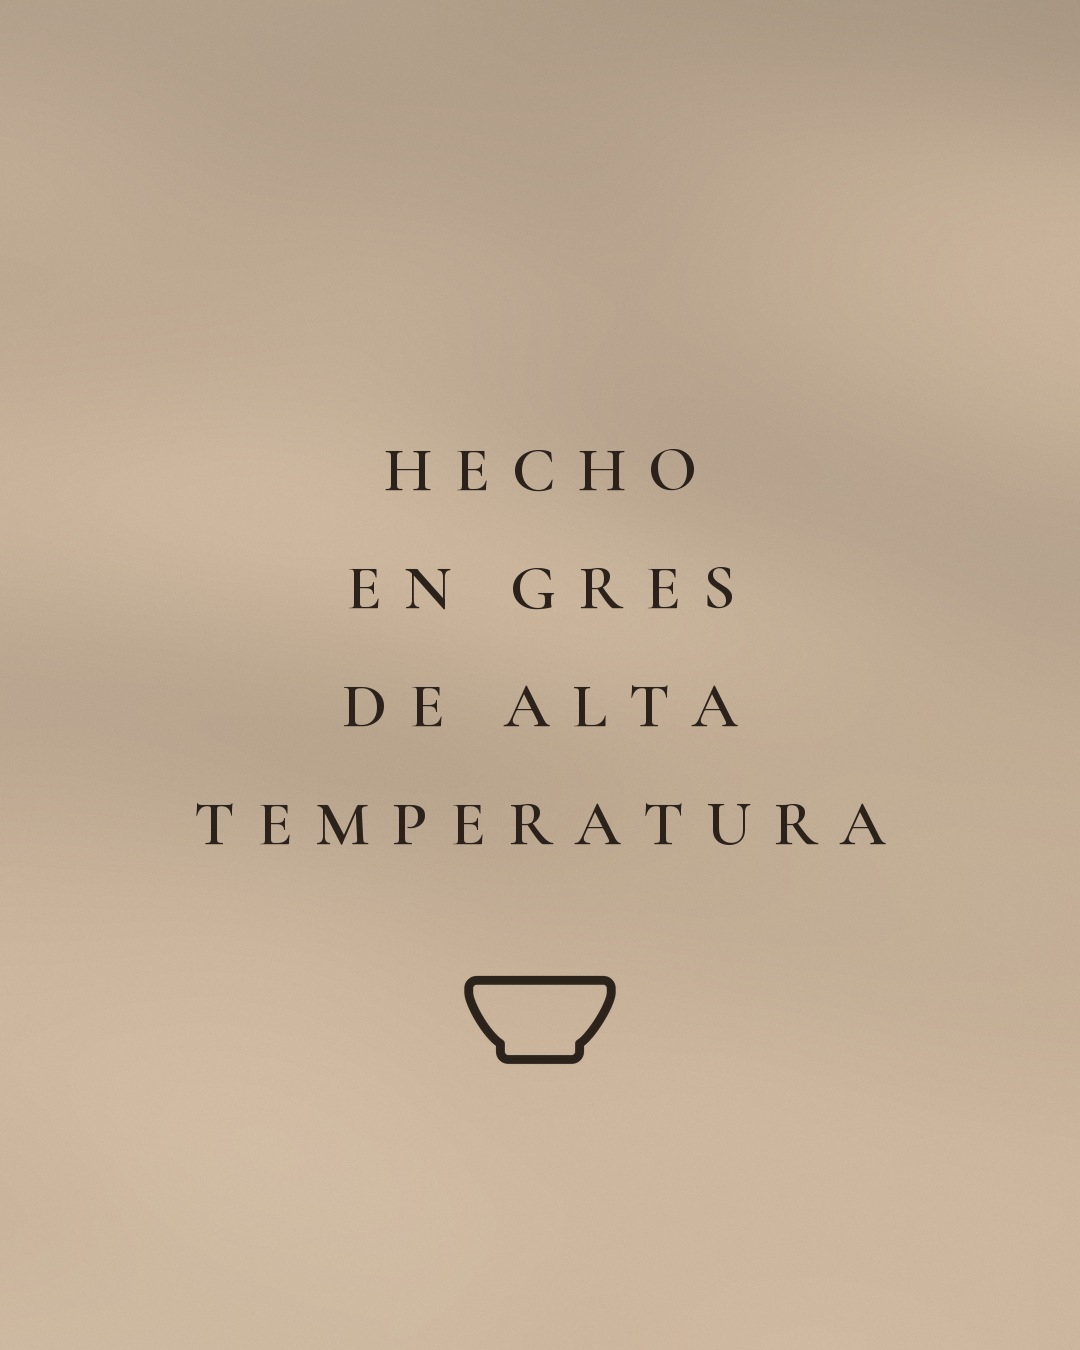
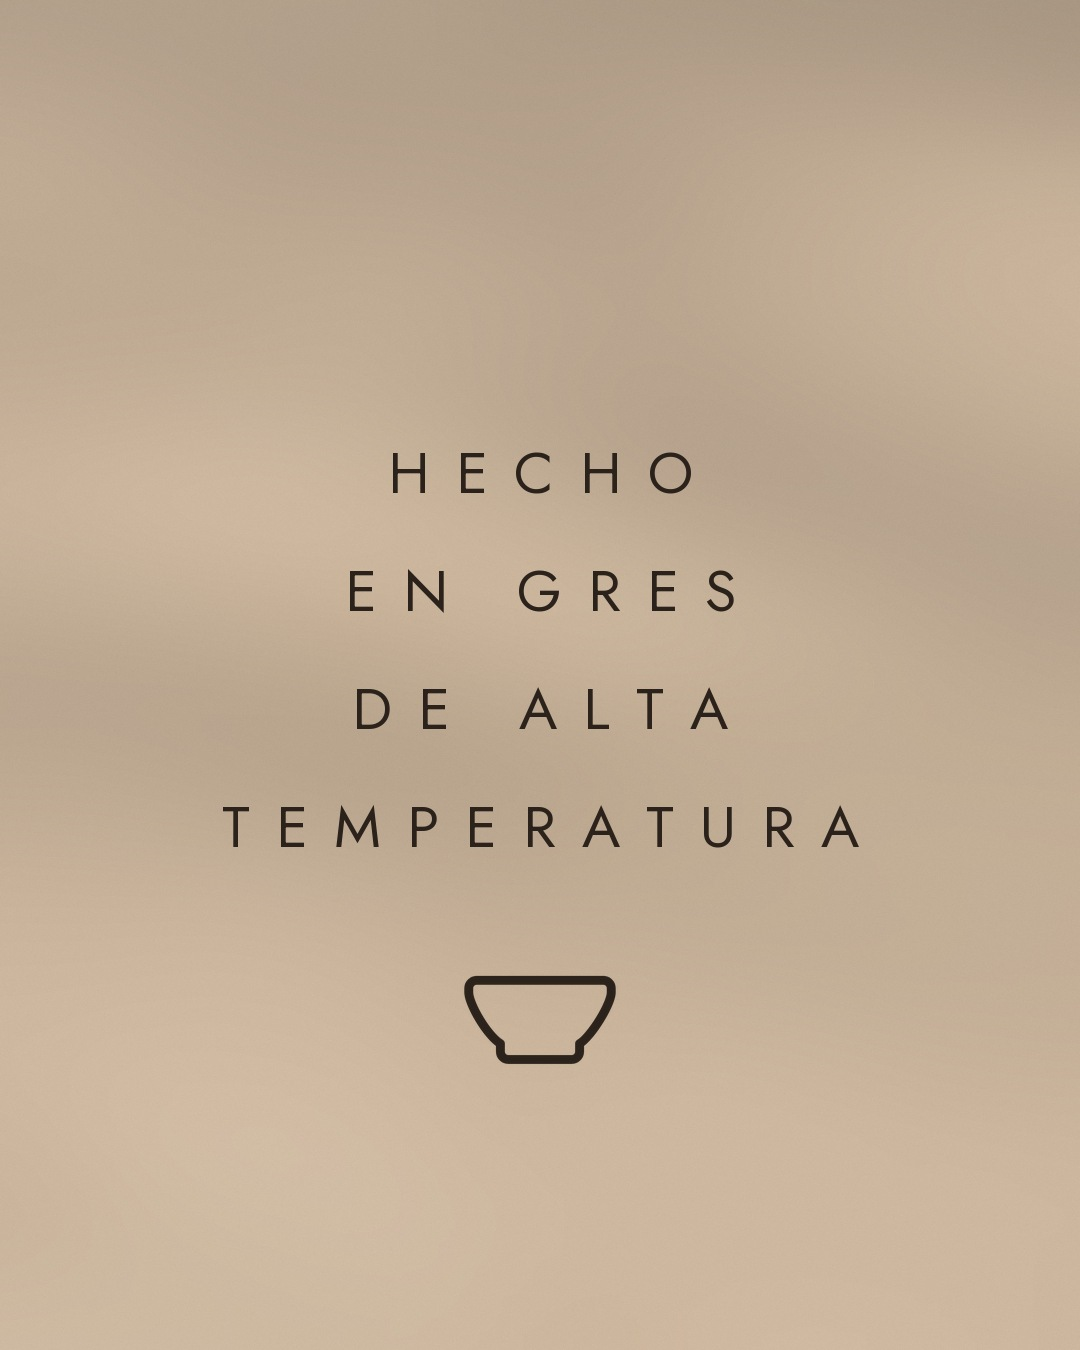
Simulador: textos elegidos, Jost por defecto, usuario tentagres_

diff --git a/simulador/vajilla/index.html b/simulador/vajilla/index.html
@@ -4,7 +4,7 @@
 <meta charset="utf-8">
 <meta name="robots" content="noindex, nofollow">
 <meta name="viewport" content="width=device-width, initial-scale=1, viewport-fit=cover">
-<title>Simulador grestenta</title>
+<title>Simulador tentagres_</title>
 <style>
   :root{
     --bg:#000; --fg:#f5f5f5; --muted:#a8a8a8; --line:#262626; --btn:#363636; --link:#e0f1ff;
@@ -143,7 +143,7 @@
   <div class="view" id="profile">
     <div class="topbar">
       <span><svg viewBox="0 0 24 24"><path d="M5 12h14"/><path d="M12 5v14"/></svg></span>
-      <span class="user">grestenta <svg viewBox="0 0 24 24"><path d="m6 9 6 6 6-6"/></svg><span class="dot"></span></span>
+      <span class="user">tentagres_ <svg viewBox="0 0 24 24"><path d="m6 9 6 6 6-6"/></svg><span class="dot"></span></span>
       <span class="icons"><svg viewBox="0 0 24 24"><circle cx="12" cy="12" r="4"/><path d="M16 8v5a3 3 0 0 0 6 0v-1a10 10 0 1 0-4 8"/></svg><svg viewBox="0 0 24 24"><line x1="4" x2="20" y1="12" y2="12"/><line x1="4" x2="20" y1="6" y2="6"/><line x1="4" x2="20" y1="18" y2="18"/></svg></span>
     </div>
 
@@ -171,11 +171,11 @@
     </div>
 
     <div class="hl">
-      <div><img src="06_platos_salvia.jpg?v=20261120b" alt="">Platos</div>
-      <div><img src="14_laguna.jpg?v=20261120b" alt="">Bowls</div>
-      <div><img src="10_vasos_avena.jpg?v=20261120b" alt="">Tazas</div>
-      <div><img src="11_barro.jpg?v=20261120b" alt="">Ensaladeras</div>
-      <div><img src="08_belen.jpg?v=20261120b" alt="">Taller</div>
+      <div><img src="06_platos_salvia.jpg?v=20261120c" alt="">Platos</div>
+      <div><img src="14_laguna.jpg?v=20261120c" alt="">Bowls</div>
+      <div><img src="10_vasos_avena.jpg?v=20261120c" alt="">Tazas</div>
+      <div><img src="11_barro.jpg?v=20261120c" alt="">Ensaladeras</div>
+      <div><img src="08_belen.jpg?v=20261120c" alt="">Taller</div>
       <div class="new"><span><svg viewBox="0 0 24 24"><path d="M5 12h14"/><path d="M12 5v14"/></svg></span>Nueva</div>
     </div>
 
@@ -192,7 +192,7 @@
   <div class="view hidden" id="feed">
     <div class="ptop">
       <button id="back" aria-label="Volver"><svg viewBox="0 0 24 24" style="width:28px;height:28px"><path d="m15 18-6-6 6-6"/></svg></button>
-      <div class="t"><small>grestenta</small><b>Publicaciones</b></div>
+      <div class="t"><small>tentagres_</small><b>Publicaciones</b></div>
     </div>
     <div id="posts"></div>
   </div>
@@ -210,7 +210,7 @@
 <div class="fsw fsw-m" data-fsw><button data-fs="1">Cormorant</button><button data-fs="2">Fraunces</button><button data-fs="3">Jost</button></div>
 
 <div class="side">
-  <h1>Simulador @grestenta</h1><p><b>Versión solo vajilla.</b> <a href="../" style="color:inherit">Ver la versión con comida</a></p>
+  <h1>Simulador @tentagres_</h1><p><b>Versión solo vajilla.</b> <a href="../" style="color:inherit">Ver la versión con comida</a></p>
   <p>Tocá cualquier foto de la grilla para abrir la publicación, igual que en Instagram. Doble clic en la foto le da “me gusta”.</p>
   <p>Seguidores y “me gusta” son números de ejemplo.</p>
   <p><b>Tipografía de las placas</b></p>
@@ -221,35 +221,35 @@
 <script>
   /* Orden de subida: 01 primero ... 15 último. En el perfil se ve al revés (15 arriba a la izquierda). */
   const POSTS = [
-    ["01_logo.jpg","Tentá Gres. Vajilla de gres hecha a mano en Buenos Aires.\nPedidos por WhatsApp, el link está en la bio."],
-    ["02_ensaladera_arena.jpg","Ensaladera Arena. Un tono neutro que deja lucir cualquier comida."],
-    ["03_gres.jpg","El gres es un material cerámico de alta temperatura, resistente y de baja porosidad. Ideal para el uso de todos los días."],
-    ["04_tostado.jpg","Bowl Tostado. Tonos cálidos y bordes con carácter."],
-    ["05_ensaladera_oliva.jpg","Ensaladera Oliva. Cada esmalte se mueve distinto en el horno, por eso no hay dos piezas iguales."],
-    ["06_platos_salvia.jpg","Plato Salvia. Un verde suave que acompaña cualquier comida."],
-    ["07_textura.jpg","Puntitos, texturas y matices: así se ve el gres de cerca."],
-    ["08_belen.jpg","Hecho a mano, pieza por pieza, en nuestro taller."],
-    ["09_usos.jpg","Vajilla para restaurantes, cafés y para tu casa. Trabajamos por encargo: escribinos y armamos la propuesta según la identidad de tu local."],
-    ["10_vasos_avena.jpg","Tazas Avena, para el café de todos los días."],
-    ["11_barro.jpg","Ensaladera Barro. Formas amplias para compartir."],
-    ["12_avena_detalle.jpg","El barro y el esmalte, capa por capa."],
-    ["13_vajilla.jpg","Vajilla de gres hecha a mano, para el hogar y la gastronomía."],
-    ["14_laguna.jpg","Bowls Laguna. Un azul que cambia con la luz."],
-    ["15_orilla.jpg","Bowl Orilla. Cada borde es único."],
-    ["16_platos_cenital.jpg","Formas simples para que la comida sea protagonista."],
-    ["17_tierra.jpg","Tazas Tierra. Barro oscuro por fuera y un toque de color por dentro."],
+    ["01_logo.jpg", "Tentá Gres. Vajilla de gres hecha a mano en Buenos Aires.\nPedidos por WhatsApp, el link está en la bio."],
+    ["02_ensaladera_arena.jpg", "Ensaladera grande, mediana o individual"],
+    ["03_gres.jpg", "El gres es un material cerámico de alta temperatura, resistente y de baja porosidad. Ideal para el uso de todos los días."],
+    ["04_tostado.jpg", "Bowl Tostado. Tonos cálidos y bordes con carácter."],
+    ["05_ensaladera_oliva.jpg", "Ensaladera Oliva."],
+    ["06_platos_salvia.jpg", "Plato Salvia."],
+    ["07_textura.jpg", "Nuestros esmaltes"],
+    ["08_belen.jpg", "Hecho a mano, pieza por pieza, en nuestro taller."],
+    ["09_usos.jpg", "Vajilla para restaurantes, cafés y para tu casa. Trabajamos por encargo: escribinos y armamos la propuesta según la identidad de tu local."],
+    ["10_vasos_avena.jpg", "Tazas Avena."],
+    ["11_barro.jpg", "Ensaladera Barro. Formas amplias para compartir."],
+    ["12_avena_detalle.jpg", "El barro y el esmalte, capa por capa."],
+    ["13_vajilla.jpg", "Vajilla para el hogar y la gastronomía."],
+    ["14_laguna.jpg", "Ensaladera Laguna. Cada esmalte se mueve distinto en el horno, por eso no hay dos piezas iguales."],
+    ["15_orilla.jpg", "Bowl Orilla, +1000 de aura"],
+    ["16_platos_cenital.jpg", "Platos Duna, en dos tamaños."],
+    ["17_tierra.jpg", "Tazas Tierra. Barro oscuro por fuera y un toque de color por dentro."],
   ];
-  const TAGS = "#gres #ceramica #vajilla #hechoamano #grestenta";
+  const TAGS = "#gres #ceramica #vajilla #hechoamano #tentagres";
   const shown = POSTS.map((p,i)=>({img:p[0],cap:p[1],n:i+1})).reverse(); // más nuevo primero
   /* Placas con 3 tipografías posibles: se cargan desde fuentes/N/ */
   const CARDS = ["gres","usos","vajilla"];
-  let FS = 1;
-  try{ FS = +(new URLSearchParams(location.search).get("fuente") || localStorage.getItem("tenta_fuente") || 1) || 1; }catch(e){}
+  let FS = 3;
+  try{ FS = +(new URLSearchParams(location.search).get("fuente") || localStorage.getItem("tenta_fuente_v2") || 1) || 1; }catch(e){}
   const cardKey = img => CARDS.find(k => img.replace(/\.jpg$/,"").endsWith("_"+k));
-  const VER = "20261120b";
+  const VER = "20261120c";
   const srcOf = img => { const k=cardKey(img); return (k ? `fuentes/${FS}/${k}.jpg` : img) + "?v=" + VER; };
   function setFont(n){
-    FS=n; try{ localStorage.setItem("tenta_fuente",n); }catch(e){}
+    FS=n; try{ localStorage.setItem("tenta_fuente_v2",n); }catch(e){}
     document.querySelectorAll("img[data-src]").forEach(im=>{ im.src=srcOf(im.dataset.src); });
     document.querySelectorAll("[data-fs]").forEach(b=>b.classList.toggle("on", +b.dataset.fs===n));
   }
@@ -274,7 +274,7 @@
     const short = p.cap.split("\n")[0];
     const needsMore = capFull.length > short.length + 2 && short.length > 0;
     return `<article class="post" id="post${i}">
-      <div class="phead"><img src="avatar.jpg" alt=""><b>grestenta</b>${I.dots}</div>
+      <div class="phead"><img src="avatar.jpg" alt=""><b>tentagres_</b>${I.dots}</div>
       <div class="pimg" data-i="${i}"><img src="${srcOf(p.img)}" data-src="${p.img}" alt=""><div class="big">${I.heart}</div></div>
       <div class="acts">
         <button class="like" data-i="${i}">${I.heart}<span>${fmt(likesOf(p.n))}</span></button>
@@ -282,7 +282,7 @@
         <button>${I.send}</button><span class="sp"></span>
         <button class="save">${I.save}</button>
       </div>
-      <div class="cap" data-full="${encodeURIComponent(capFull)}"><b>grestenta</b>${short}${needsMore?' <span class="more">... más</span>':''}</div>
+      <div class="cap" data-full="${encodeURIComponent(capFull)}"><b>tentagres_</b>${short}${needsMore?' <span class="more">... más</span>':''}</div>
       <div class="meta">Ver los ${commentsOf(p.n)} comentarios</div>
       <div class="date">${DAYS[Math.min(i,DAYS.length-1)]}</div>
     </article>`;
@@ -315,7 +315,7 @@
     const like=e.target.closest(".like"); if(like){ setLike(+like.dataset.i,!like.classList.contains("on")); return; }
     const save=e.target.closest(".save"); if(save){ save.classList.toggle("on"); return; }
     const more=e.target.closest(".more"); if(more){ const c=more.parentElement;
-      c.innerHTML=`<b>grestenta</b>${decodeURIComponent(c.dataset.full)}`; return; }
+      c.innerHTML=`<b>tentagres_</b>${decodeURIComponent(c.dataset.full)}`; return; }
   });
   feed.addEventListener("dblclick",e=>{
     const pi=e.target.closest(".pimg"); if(!pi) return;
